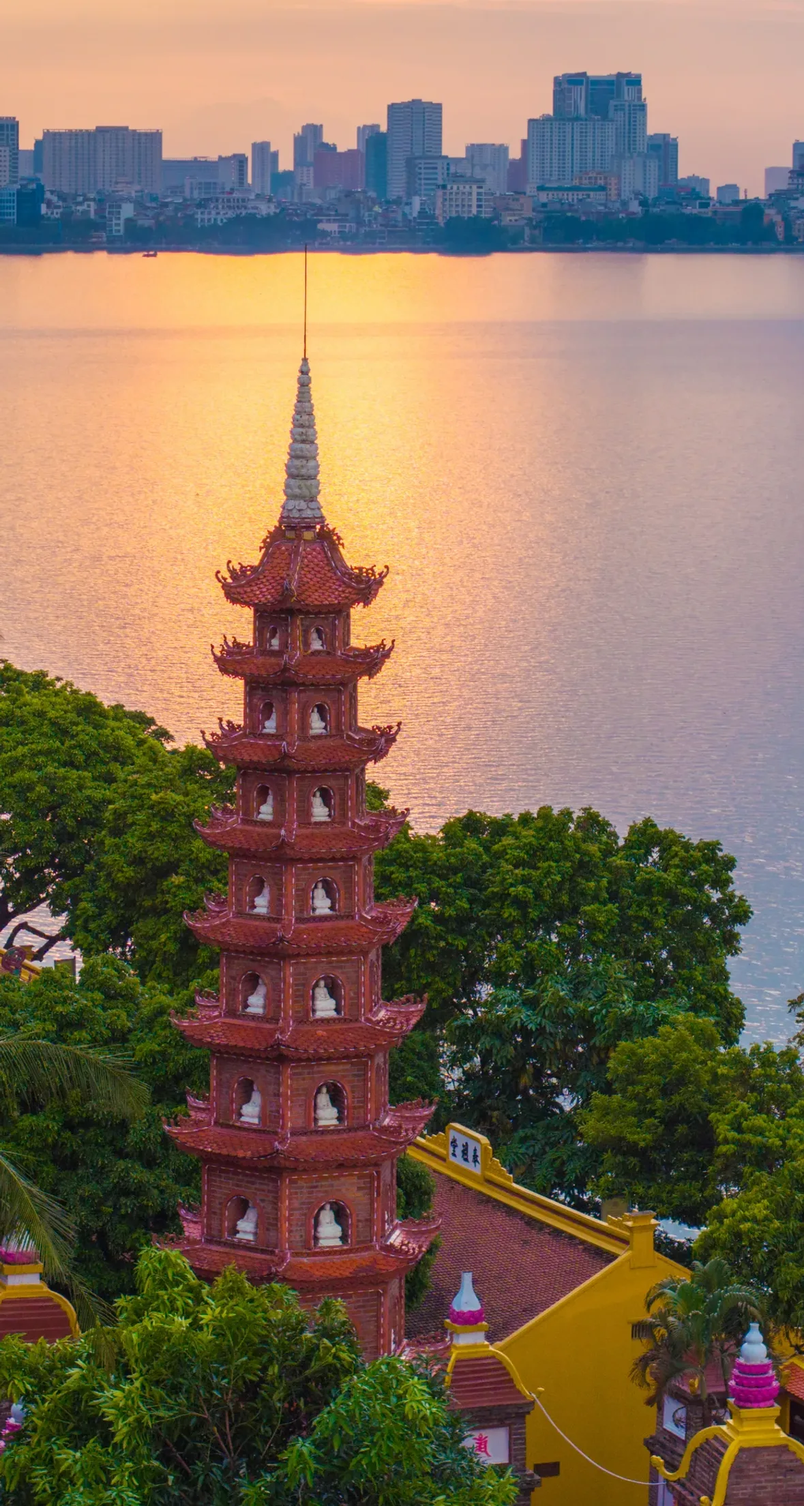
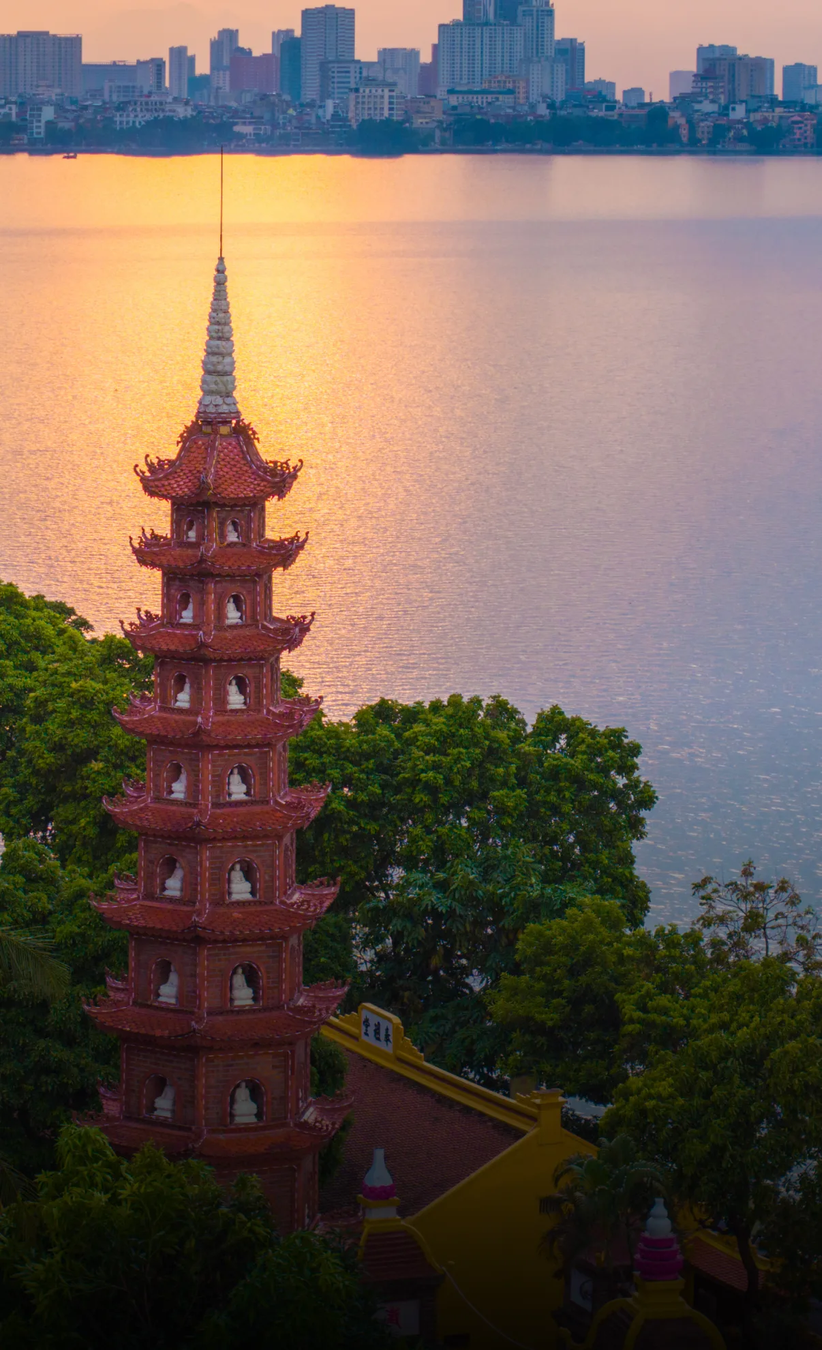
Fix the 22/10 client feedback and swap in the client's welcome photos
- Tour 360: the drag hint fades out after 5s (touches inside the tour iframe never reached the page)
- Home: the VNE button opens Hỗ trợ; bottom nav buttons fade while pressed
- Welcome: the pill darkens to #805300 while pressed; when done it fades out and the circle turns #009B8C with a #00F2DB tick
- Welcome: client export 1206x1980 (402x660 Safari area @3x) with the bottom shade baked in, so the CSS gradient is gone

diff --git a/components/onboarding/onboarding-screen.tsx b/components/onboarding/onboarding-screen.tsx
@@ -7,7 +7,7 @@ import { CheckIcon } from "./icons";
 import { LogoAnimation } from "./logo-animation";
 
 type Slide = {
-  /** Pre-cropped to the Figma welcome frame (393x736, exported @3x) so the framing matches the design. */
+  /** Client export (22/10): 1206x1980, the 402x660 web area of Safari on iPhone @3x, bottom shade baked in. */
   image: string;
   alt: string;
   heading: [string, string];
@@ -54,11 +54,14 @@ const EDGE_RESISTANCE = 0.35;
 
 type RGBA = { r: number; g: number; b: number; a: number };
 
-// Figma "Layout 1_welcome" (369:7574): dots #F2D79F / #9698AB; the pill darkens to #805300 while pressed.
+// Figma "Layout 1_welcome" (369:7574): dots #F2D79F / #9698AB; the pill is #AA6E00 and darkens to #805300 while
+// pressed. Figma "done" (795:510996, client 22/10): the pill goes away and the circle turns #009B8C with a #00F2DB tick.
 const DOT_INACTIVE: RGBA = { r: 150, g: 152, b: 171, a: 1 };
 const DOT_ACTIVE: RGBA = { r: 242, g: 215, b: 159, a: 1 };
-const PILL_START: RGBA = { r: 170, g: 110, b: 0, a: 1 };
-const PILL_END: RGBA = PILL_START;
+const PILL_COLOR = "#AA6E00";
+const PILL_PRESSED = "#805300";
+const DONE_CIRCLE = "#009B8C";
+const DONE_TICK = "#00F2DB";
 
 const clamp01 = (t: number) => Math.min(Math.max(t, 0), 1);
 const lerp = (a: number, b: number, t: number) => a + (b - a) * t;
@@ -289,11 +292,6 @@ export function OnboardingScreen() {
                 draggable={false}
                 className="object-cover"
               />
-              {/* Figma: gradient from y 415 of 736, transparent to black 90% at 85%. */}
-              <div
-                className="absolute inset-x-0 bottom-0 h-[59%]"
-                style={{ background: "linear-gradient(180deg, rgba(0,0,0,0) 0%, rgba(0,0,0,0.9) 85%)" }}
-              />
             </div>
           );
         })}
@@ -352,8 +350,17 @@ export function OnboardingScreen() {
               WebkitBackdropFilter: "blur(6.9px)",
             }}
           >
-            <div className="pointer-events-none absolute top-1 right-[5px] flex size-13.5 items-center justify-center rounded-full bg-[rgba(217,217,217,0.36)]">
-              <Image src="/onboarding/chevron.svg" alt="" width={13} height={8} />
+            <div
+              className="pointer-events-none absolute top-1 right-[5px] flex size-13.5 items-center justify-center rounded-full transition-colors duration-200"
+              style={{ backgroundColor: isConfirmed ? DONE_CIRCLE : "rgba(217,217,217,0.36)" }}
+            >
+              {isConfirmed ? (
+                <span style={{ color: DONE_TICK }}>
+                  <CheckIcon width={18} height={18} />
+                </span>
+              ) : (
+                <Image src="/onboarding/chevron.svg" alt="" width={13} height={8} />
+              )}
             </div>
 
             <button
@@ -368,11 +375,12 @@ export function OnboardingScreen() {
               className="absolute top-1 left-1 flex h-[54px] shrink-0 cursor-grab touch-none items-center justify-center overflow-hidden rounded-[43px] text-sm whitespace-nowrap text-[#f3ebd9] active:cursor-grabbing"
               style={{
                 width: pillWidth,
-                backgroundColor: isConfirmed ? "#AA6E00" : mixRGBA(PILL_START, PILL_END, pillProgress),
-                transform: `translateX(${pillOffset}px) scale(${isConfirmed ? 1.06 : 1 + pillProgress * 0.04})`,
+                backgroundColor: isPillDragging ? PILL_PRESSED : PILL_COLOR,
+                opacity: isConfirmed ? 0 : 1,
+                transform: `translateX(${pillOffset}px) scale(${1 + pillProgress * 0.04})`,
                 transition: isPillDragging
                   ? "background-color 80ms linear"
-                  : `transform 320ms ${BOUNCE_EASE}, width 320ms ${MORPH_EASE}, background-color 200ms`,
+                  : `transform 320ms ${BOUNCE_EASE}, width 320ms ${MORPH_EASE}, background-color 200ms, opacity 200ms`,
               }}
             >
               <span

diff --git a/components/shared/vr-screen.tsx b/components/shared/vr-screen.tsx
@@ -2,20 +2,28 @@
 
 import Image from "next/image";
 import { useRouter } from "next/navigation";
-import { useState } from "react";
+import { useEffect, useState } from "react";
 import { canGoBackInApp } from "@/lib/navigation-history";
 import { CloseIcon } from "../home/icons";
 
 /**
  * Figma "Chi tiet / 360" (720:27147): the tour fills the whole screen; the "Lưu" top bar variant
- * (close icon + #FAF8F5 title) floats on top, with a "Kéo để tham quan" hint until the first touch.
+ * (close icon + #FAF8F5 title) floats on top, with a "Kéo để tham quan" hint for the first 5s (client 22/10).
  */
+const HINT_MS = 5000;
+
 export function VrScreen({ title, url, back }: { title: string; url: string; back: string }) {
   const router = useRouter();
   const [hintVisible, setHintVisible] = useState(true);
 
+  // Touches inside the cross-origin tour iframe never reach this page, so the hint fades out on a timer.
+  useEffect(() => {
+    const id = window.setTimeout(() => setHintVisible(false), HINT_MS);
+    return () => window.clearTimeout(id);
+  }, []);
+
   return (
-    <div className="fixed inset-0 bg-[#19264E]" onPointerDownCapture={() => setHintVisible(false)}>
+    <div className="fixed inset-0 bg-[#19264E]">
       <iframe
         src={url}
         title={`Tour 360° ${title}`}
@@ -46,7 +54,7 @@ export function VrScreen({ title, url, back }: { title: string; url: string; bac
       </div>
 
       <div
-        className="pointer-events-none absolute inset-0 z-10 flex flex-col items-center justify-center gap-2 transition-opacity duration-300"
+        className="pointer-events-none absolute inset-0 z-10 flex flex-col items-center justify-center gap-2 transition-opacity duration-500"
         style={{ opacity: hintVisible ? 1 : 0 }}
       >
         <Image src="/figma/drag-360.svg" alt="" width={78} height={78} />

diff --git a/components/home/header.tsx b/components/home/header.tsx
@@ -1,4 +1,5 @@
 import Image from "next/image";
+import Link from "next/link";
 import { SearchIcon } from "./icons";
 
 // Figma "Top bar / home" (392:11222): 68px gradient bar; logo 48px, search 233x32, VNE 48x32, 16px gaps.
@@ -15,12 +16,14 @@ export function Header() {
         <span className="truncate text-xs leading-none text-[#27314D]/70">Tìm địa điểm bạn muốn đến</span>
       </div>
 
-      <button
-        type="button"
-        className="flex h-8 w-12 shrink-0 items-center justify-center rounded border border-[#F2D79F] text-sm text-white"
+      {/* Client 22/10: the language button opens Hỗ trợ, whose default Cài đặt tab holds the language list. */}
+      <Link
+        href="/ho-tro"
+        aria-label="Đổi ngôn ngữ"
+        className="flex h-8 w-12 shrink-0 items-center justify-center rounded border border-[#F2D79F] text-sm text-white transition-opacity active:opacity-50"
       >
         VNE
-      </button>
+      </Link>
     </header>
   );
 }

diff --git a/components/home/bottom-nav.tsx b/components/home/bottom-nav.tsx
@@ -32,8 +32,8 @@ export function BottomNav() {
             key={key}
             type="button"
             onClick={() => href && router.push(href)}
-            // Full-height column = larger tap target (client: icons were hard to hit).
-            className={`flex flex-1 flex-col items-center gap-1 ${color}`}
+            // Full-height column = larger tap target (client: icons were hard to hit); fades while pressed (client 22/10).
+            className={`flex flex-1 flex-col items-center gap-1 transition-opacity active:opacity-50 ${color}`}
           >
             <Icon className="h-7 w-7" filled={isActive} />
             <span className={`text-xs leading-[15px] ${isActive ? "text-[#AA7709]" : ""}`}>{label}</span>
